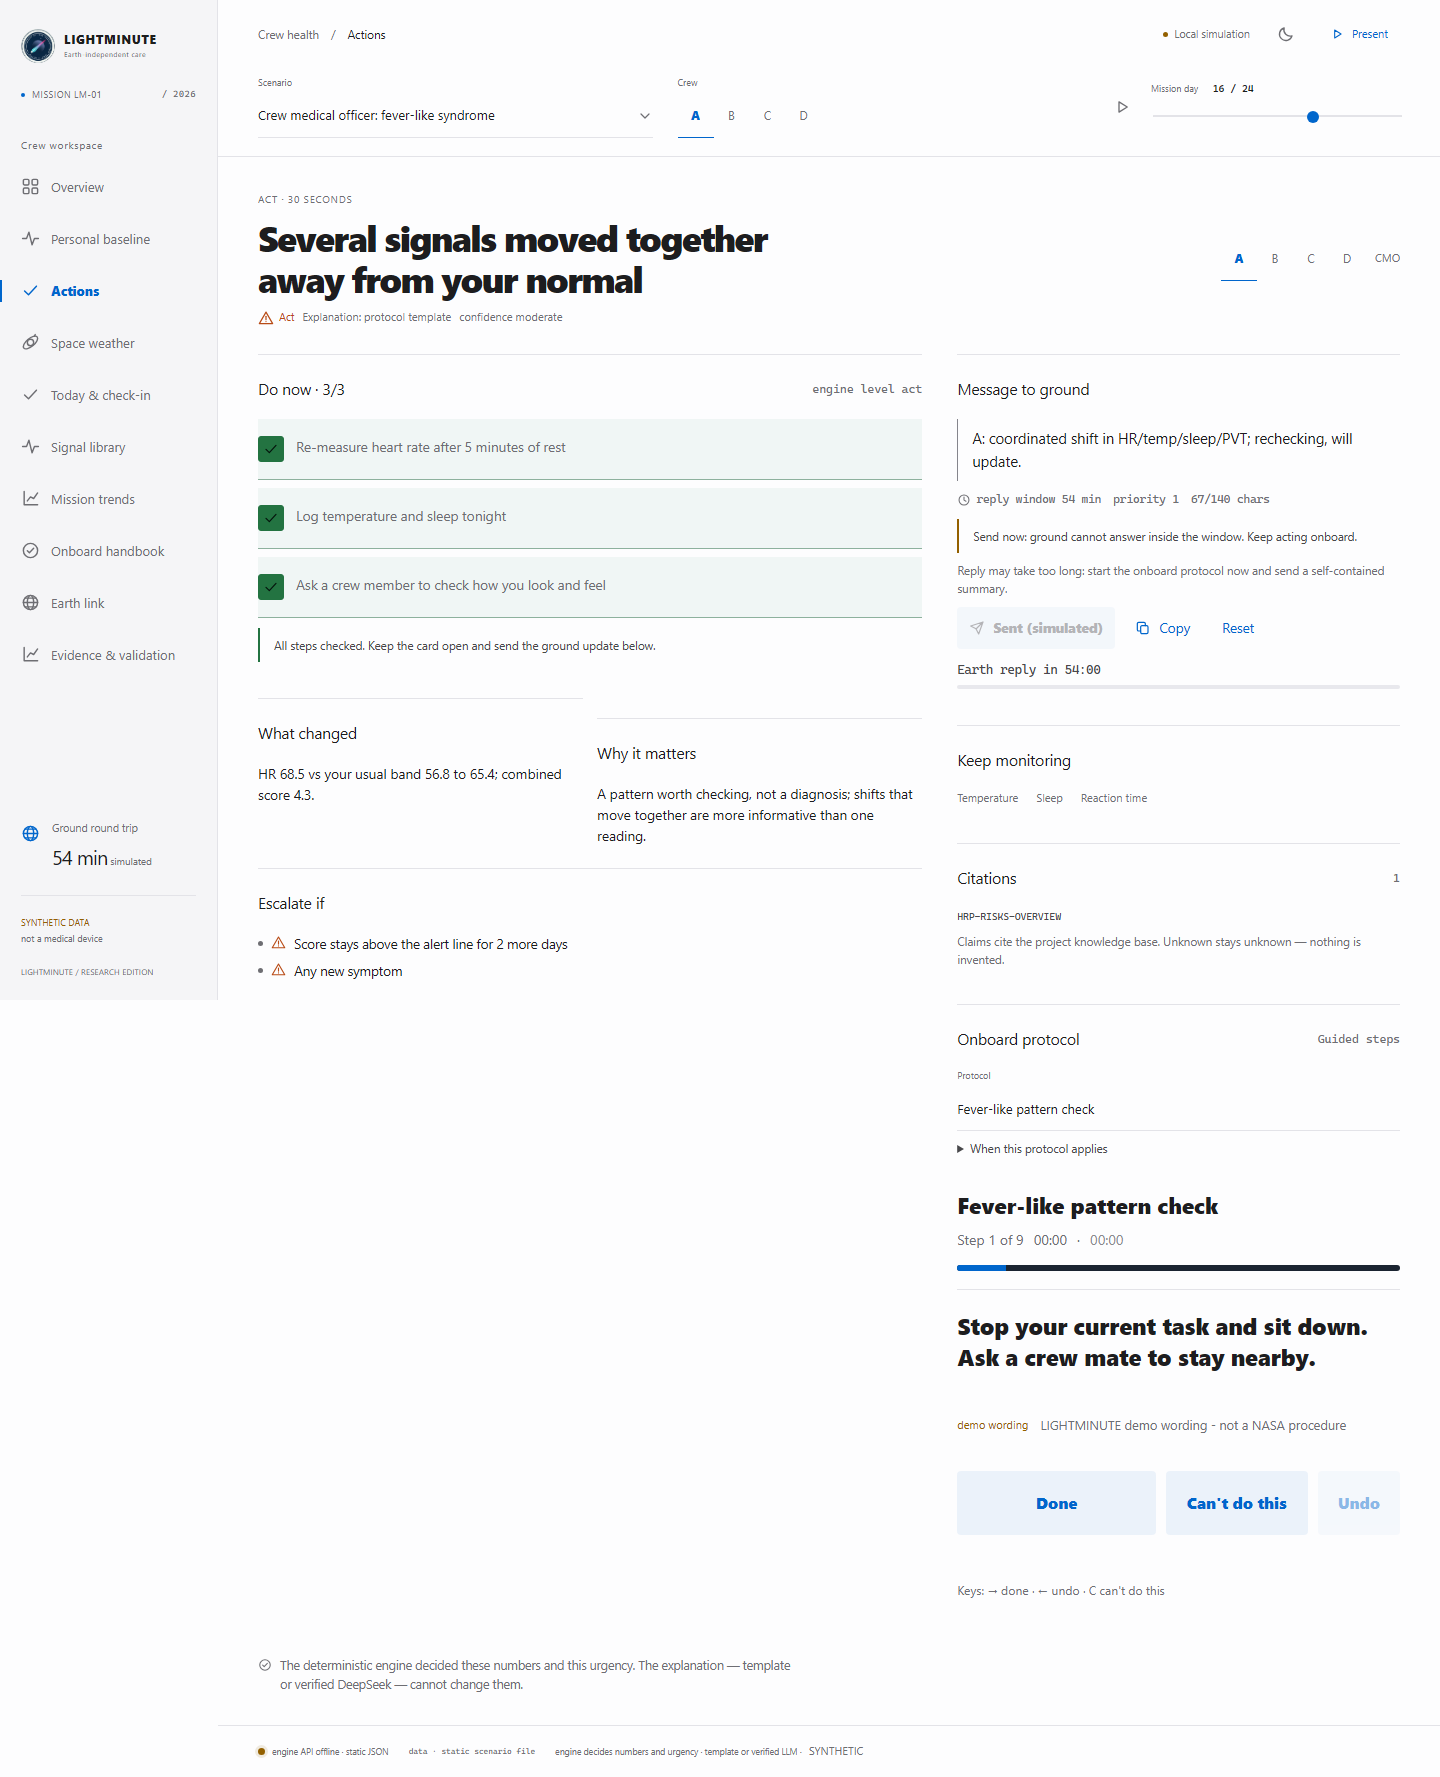
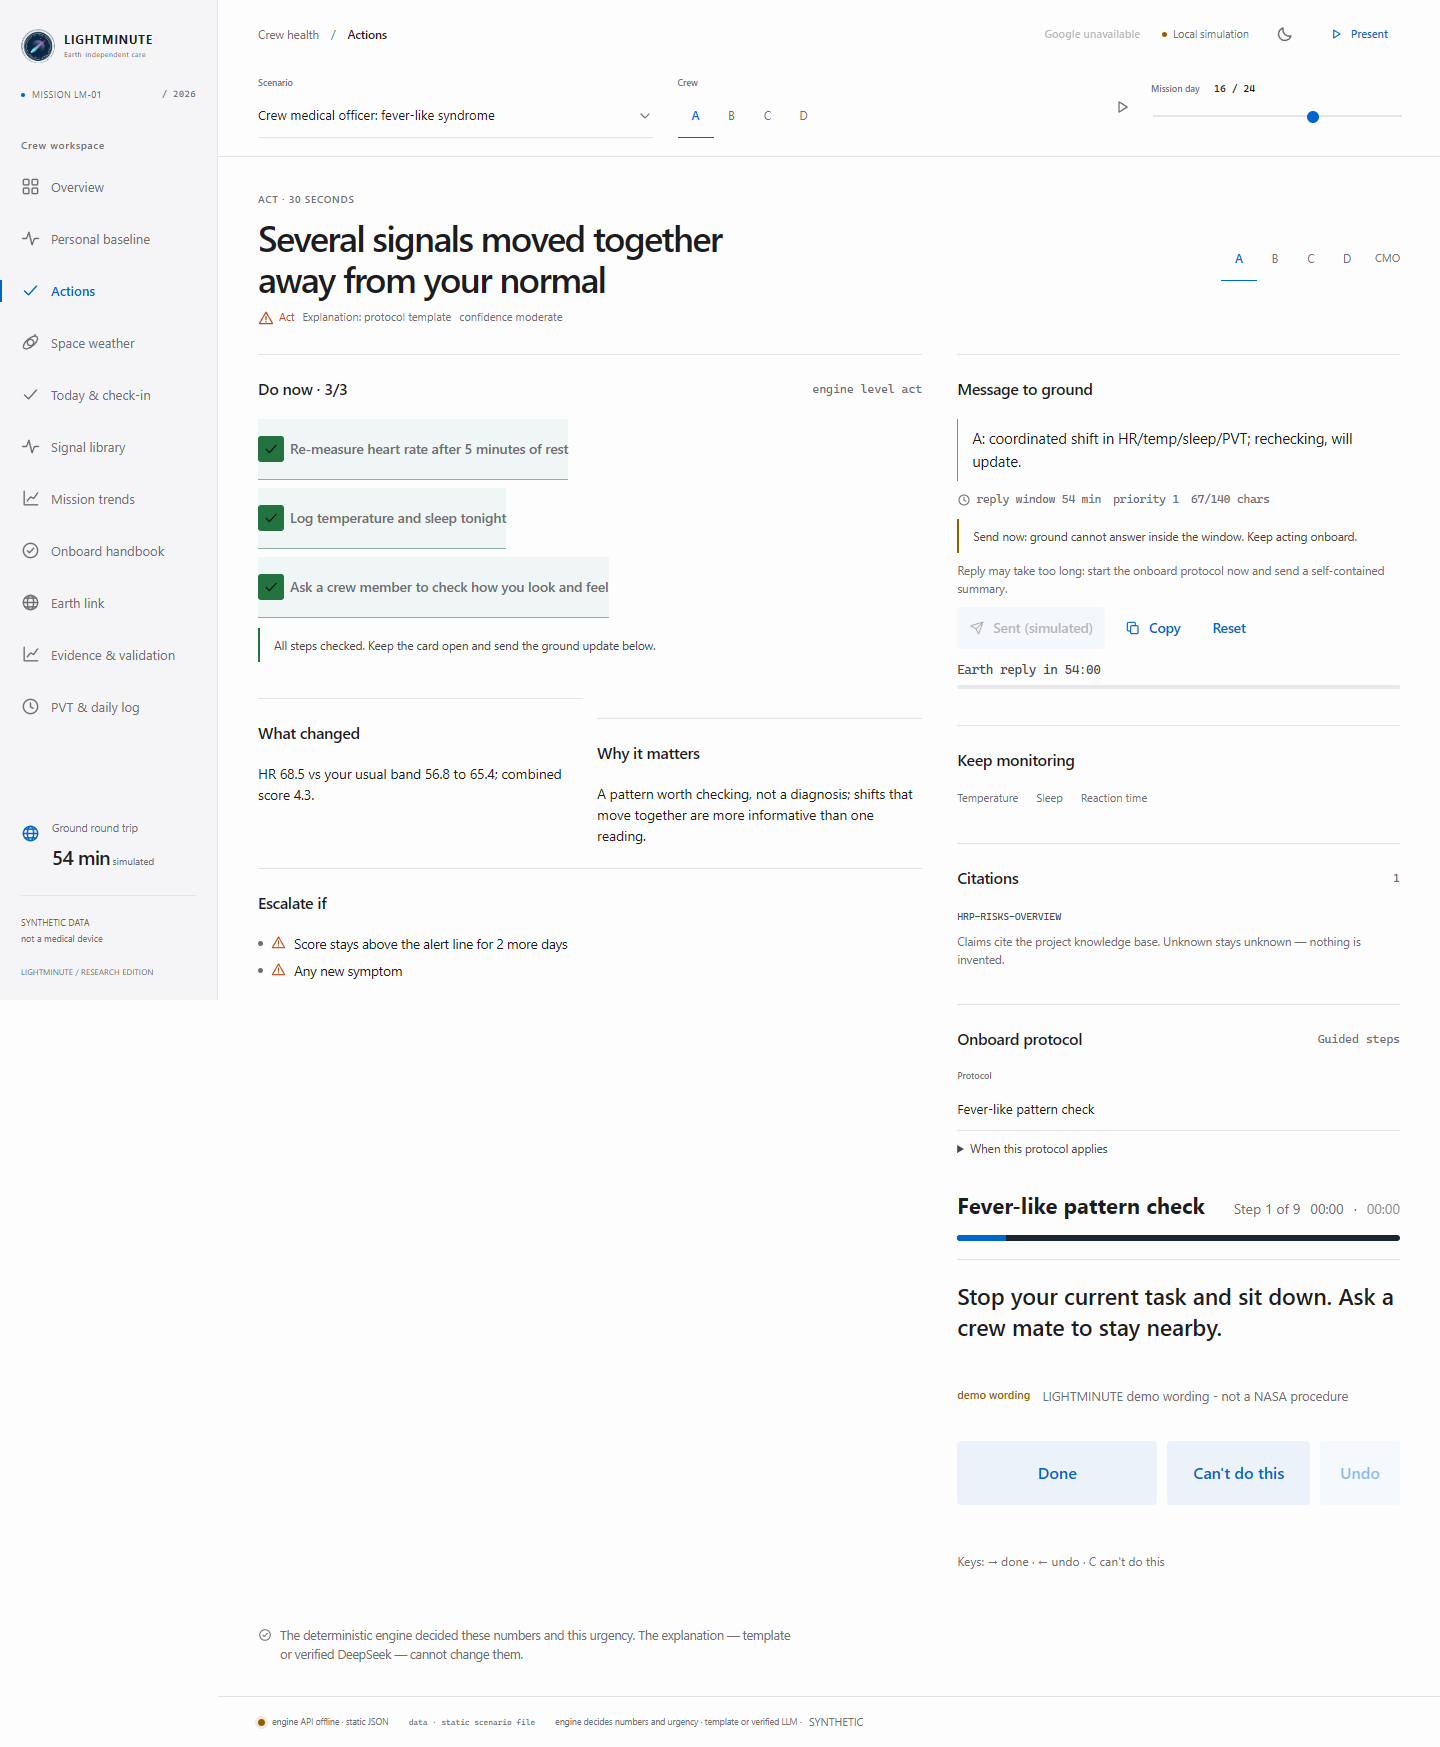
docs: refresh QA captures, OAuth notes and the session handoff
Record the restored crew-tablet views, the browser E2E results and the Google
sign-in setup, with regenerated QA screenshots and the vault log for the day.

🤖 Generated with Codebuff

diff --git a/docs/google-oauth.md b/docs/google-oauth.md
@@ -1,0 +1,111 @@
+# Google sign-in: localhost and Cloudflare Pages
+
+Google OAuth runs on the server. The browser never receives the client secret,
+Google access token or refresh token. Scopes are limited to `openid email profile`.
+
+## Register these exact URLs in Google Cloud
+
+Client type: **Web application**, under Google Auth Platform → Clients.
+
+| Setting | Local development | Production |
+| --- | --- | --- |
+| Authorized JavaScript origin | `http://localhost:5173` | `https://lightminute.pages.dev` |
+| Authorized redirect URI | `http://localhost:5173/api/auth/google/callback` | `https://lightminute.pages.dev/api/auth/google/callback` |
+
+The redirect URIs have no trailing slash. The redirect path is an API endpoint,
+not a folder that must exist before registering it in Google. `127.0.0.1`, other
+ports and Cloudflare preview domains are intentionally not registered or accepted.
+If the consent screen is in Testing, add the Google accounts that will test it
+under Google Auth Platform → Audience → Test users.
+
+## Run locally
+
+The repository-root `.env`, ignored by Git, contains `GOOGLE_CLIENT_ID`,
+`GOOGLE_CLIENT_SECRET` and a random `AUTH_SESSION_SECRET` of at least 32 characters.
+See `.env.example`. Never prefix secrets with `VITE_`.
+
+```powershell
+cd apps/crew-tablet
+npm ci
+npm run dev
+```
+
+Visit **http://localhost:5173**, then use **Sign in with Google** in the header.
+Vite serves `/api/auth/*` before forwarding other `/api` requests to Python, so
+Google sign-in works even when the Python API is off. The port is strict to avoid
+silently changing to a port Google has not authorized. Restart Vite after changing
+the `.env` file. Production API functionality unrelated to Google is unchanged.
+
+## Configure and deploy Cloudflare
+
+The Cloudflare Pages project is `lightminute`, configured by
+`apps/crew-tablet/wrangler.toml`. The client ID is public and lives in `[vars]`.
+Set **encrypted secrets** `GOOGLE_CLIENT_SECRET` and `AUTH_SESSION_SECRET` in
+Workers & Pages → lightminute → Settings → Variables and Secrets, production.
+Use the same client ID as the Google Cloud client configured above.
+
+Alternatively, from `apps/crew-tablet`, use Wrangler's secret prompts (do not put
+secrets directly in command arguments):
+
+```powershell
+npx wrangler login --scopes account:read user:read pages:write
+npx wrangler pages secret put GOOGLE_CLIENT_SECRET --project-name lightminute
+npx wrangler pages secret put AUTH_SESSION_SECRET --project-name lightminute
+npm run cf:deploy
+```
+
+Deploy from **apps/crew-tablet**, so Wrangler discovers its `functions/` directory.
+Uploading only `dist/` through a static uploader will not deploy the OAuth API.
+Functions routing is limited to `/api/auth/*` through `public/_routes.json`.
+Keep the OAuth routes out of the public sitemap.
+
+## Routes and security behavior
+
+| Route | Behavior |
+| --- | --- |
+| `GET /api/auth/google/login` | Starts Google authorization with state, nonce and PKCE S256. |
+| `GET /api/auth/google/callback` | Checks state, exchanges the one-use code server-side, validates the Google ID-token signature, issuer, audience, age and nonce, and requires verified email. |
+| `GET /api/auth/session` | Returns minimal signed-in identity, or `user: null`; never returns credentials or OAuth tokens. |
+| `POST /api/auth/logout` | Requires a same-origin request and clears app session cookies. It does not sign out of the user's Google account. |
+
+Flow cookies expire in 10 minutes and app sessions in one hour. Cookies are
+HttpOnly and SameSite=Lax; production uses Secure and the `__Host-` prefix.
+Responses are `no-store`; errors never include Google's raw response. Session
+cookies are signed, not encrypted, and contain only Google subject, name and email.
+Rotating `AUTH_SESSION_SECRET` invalidates existing cookies. Stateless sessions
+have no centralized revocation list. This identity does not grant medical,
+flight-surgeon or crew roles: the existing mission demo PIN remains a separate
+demonstration mechanism. No Google identity or health information is written to
+Neon by this integration, and no new Google APIs beyond sign-in are authorized.
+
+## Verify
+
+```powershell
+npm run test:auth
+npm run build
+npx wrangler pages functions build --outdir ../../tmp/cloudflare-auth
+```
+
+After deployment, `/api/auth/session` should return
+`{"configured":true,"user":null}` before login. The login route should redirect
+to Google with the exact callback above. Completing real sign-in requires the
+Google account owner's browser consent; mocked tests are not proof of that consent.
+
+## Local verification status — 2026-11-14
+
+- 12/12 OAuth security/session tests passed; TypeScript and Vite build passed.
+- Cloudflare Pages Functions compiled successfully.
+- An additional local Workerd/Miniflare runtime check failed to initialize on this
+  Windows environment, including its minimal baseline. This does not constitute
+  a successful production runtime test; verify the deployed routes after publishing.
+- Real localhost routes returned configured session HTTP 200 and Google redirect HTTP 302.
+- Browser checks passed for sign-in availability, exact callback, 390/1440px layout,
+  and account display/logout with synthetic responses. Public bundles contain no secrets.
+- Cloudflare secrets and deployment will be configured manually by the deployment
+  owner, as requested. No Cloudflare login, deployment or real Google account sign-in
+  was completed from this workstation. Google redirect registration remains external.
+
+Sources: [Google web-server OAuth](https://developers.google.com/identity/protocols/oauth2/web-server),
+[Google OpenID Connect](https://developers.google.com/identity/openid-connect/openid-connect),
+[Pages Functions routing](https://developers.cloudflare.com/pages/functions/routing/),
+[Pages secrets](https://developers.cloudflare.com/pages/functions/bindings/#secrets).

diff --git a/handoff/freebuff-checklist.md b/handoff/freebuff-checklist.md
@@ -1,0 +1,68 @@
+# Freebuff checklist · crew-tablet (data views, contract hardening, E2E)
+
+Date: 2026-11-14
+Repo: `C:\Users\abel1\Desktop\tether-kit\tether-kit\project`
+
+## Alcance
+
+- Solo `apps/crew-tablet/**` + este handoff.
+- Sin operaciones destructivas sobre trabajo ajeno: no se revirtieron docs/services/scripts, no se tocaron `services/`, `ml/`, `docs/`, `vault/` ni `.agents/` salvo lo que ya venía sin commitear de otros frentes (que se commitea, no se descarta).
+
+## Ronda 1 — vistas de datos y contrato
+
+- `src/lib/radiation.ts` / `src/lib/validation.ts`: parsers tipados de `public/data/radiation.json` y `validation.json`.
+- `src/views/Radiation.tsx`: chips de procedencia, tiles de flux actual/pico/escala S, gráfico SVG de todas las muestras, tira log de escala S, tabla de procedencia (fuente, URL, retrieved, licencia, label, checksum), límites y `RawDetails`.
+- `src/views/Validation.tsx`: design, tablas por escenario, calibración, missing data, baseline length, limitaciones y panel de stats LLM.
+- `src/views/CheckIn.tsx`: PVT-B (10 ensayos, ISI 1.5–4 s, RT, lapsos, falsos arranques) + check-in diario en `localStorage`, todo etiquetado demo/local y sin ruta hacia el motor.
+- `scripts/smoke.mjs` y `tests/e2e.mjs`: contrato del build y E2E de navegador.
+
+## Ronda 2 — correcciones de revisión
+
+| Hallazgo | Arreglo |
+| --- | --- |
+| `faPerWeek` como porcentaje | Columnas de tasa en decimal con unidad **"/ crew-week"**, nota explícita y verificación en el E2E (falla si aparece `%`). |
+| `label: synthetic` con `synthetic: false` | Se resuelve a **`unverified`** con chip "label conflict → unverified" y motivo en Provenance. |
+| Flux negativo / fecha inválida | El parser descarta el sample. |
+| `s_scale` ausente | Queda **unknown**; nunca se infiere S0. |
+| Eje X comprimía huecos | Eje proporcional al timestamp (con marca del punto medio). |
+| `DataNotice` sobre datos NOAA | Radiation y Validation dicen **SYNTHETIC CREW**. |
+| Contrato pfu ≥10 MeV | `unitsContracted`, unidad tomada del snapshot y checks de `pfu`/`10 MeV` en el smoke. |
+| `co2_creep` caía a `cmo_fever` | Identidad de escenario validada en `lib/api.ts`. |
+
+## Ronda 3 — restauración sobre LIGHTMINUTE
+
+El trabajo de las rondas 1-2 quedó guardado en `b533b25`, pero `e0c1fb5` (integración LIGHTMINUTE) y el fast-forward a `origin/main` reemplazaron esas rutas: `main` ya no tenía `tests/`, `CheckIn.tsx`, `lib/radiation.ts` ni `lib/validation.ts`, y `Radiation/Validation` eran vistas genéricas de inspector.
+
+Restaurado desde `b533b25` **sin pisar LIGHTMINUTE**: las cuatro vistas/lib propias, `tests/e2e.mjs` y `screenshots/`. Reintegrado a mano en la app actual:
+
+- `App.tsx` + `useHashState.ts`: vista `checkin` ("PVT & daily log"), renderizada **fuera** del bloque de escenario para funcionar sin motor ni JSON.
+- `styles.css`: bloque `.rad-chart`/`.sstrip`/`.provenance`/`.pvt`/`.checkin` reincorporado (239 líneas).
+- `primitives.tsx`: `DataNotice` acepta `label` ("SYNTHETIC CREW").
+- `lib/api.ts`: rechaza sustitución (`asked co2_creep, got cmo_fever`), identidad ausente en archivos estáticos y **identidad autocontradictoria** (`scenario` ≠ `name`).
+- `scripts/smoke.mjs`: usa `channel: "chrome"` (no descarga Chromium), detecta `.venv/Scripts/python.exe` para el motor y apunta al DOM restaurado (`.rad-chart`, tablas de métodos, `checkin` en el barrido móvil).
+
+## Checks (estado actual)
+
+```
+npm run typecheck          exit 0
+npm run build              exit 0
+npm run test:e2e           exit 0 · 17 grupos (incluye motor real, LLM_PROVIDER=none)
+npm run test:e2e:browser   exit 0 · 13 passed · browser e2e: PASS
+```
+
+El E2E de navegador cubre: cinco vistas, snapshot de radiación manipulado, escenario inexistente, tres formas de sustitución de escenario, estados vacíos honestos de radiación/validación, PVT-B completo, check-in persistente y móvil 390×844, con cero `pageerror`.
+
+Capturas: `apps/crew-tablet/screenshots/final-*.png` (glance, why, act, radiation, radiation-unverified, validation, checkin, wrong-scenario, mobile-checkin, ground, protocol).
+
+## Coordinación
+
+- Míos: `src/views/Radiation.tsx`, `src/views/Validation.tsx`, `src/views/CheckIn.tsx`, `src/lib/radiation.ts`, `src/lib/validation.ts`, `src/lib/api.ts`, `tests/e2e.mjs`, `scripts/smoke.mjs`, `screenshots/`.
+- Servidores ajenos intactos: Vite del padre en `:5173` y `vite preview` propio en `:4173`.
+
+## Límites
+
+- El E2E de navegador corre **sin motor** (camino offline: JSON estático + plantillas); el smoke sí arranca el motor desde `.venv` con `LLM_PROVIDER=none`.
+- Solo Chrome instalado; "móvil" es viewport Chromium, no dispositivo real.
+- Las rutas `s_scale` ausente y label contradictorio se ejercitan con fixtures interceptados, no con el archivo publicado.
+- Los RT del PVT son clics automatizados: validez técnica, no medida humana.
+- Sin validación clínica: los porcentajes son de crews sintéticos y la vista muestra sus limitaciones.

diff --git a/README.md b/README.md
@@ -111,7 +111,31 @@ Legend: ✅ works and was exercised · 🟡 works with a stated limit · ⛔ not
 - Submission assets: the 60-second video, public demo/video URL and team/roles section. Eight screenshots are in `docs/screenshots/`.
 - `.github/workflows/ci.yml` runs the tests and the tablet build on every push to `main` and on PRs, it ran green on both jobs on 14-nov (run 43613134201) but never on a public repo, and ownership now includes the vault and passes locally. The expanded CI workflow has not been pushed in this revision.
 - OSDR / Inspiration4 data (blocked by 404s), and any prospective validation on real crew data.
-- Vision / voice input endpoints, DeepSeek web-search use, auth, database, multi-crew sessions — all deliberately out of scope for the prototype.
+- Vision / voice input endpoints, DeepSeek web-search use, production auth and multi-crew sessions remain outside the prototype scope.
+
+### Neon database connection
+
+Install the backend dependencies from `services/engine/pyproject.toml` and set
+`DATABASE_URL` in the repository-root `.env` (ignored by Git), using the connection
+string from Neon with TLS enabled. Environment variables override the local file.
+The credential belongs only on the backend; never add it to a `VITE_` variable.
+
+With the API running, `GET /api/database/health` executes `SELECT 1`, returning
+`{"status":"ok","provider":"neon","connected":true}` or a sanitized HTTP 503.
+Connections and queries use five-second timeouts, and connections close after use.
+This integration does not migrate data or create tables. Existing mission messages
+still use SQLite; the Neon connection is available through
+`tether_engine.api.database.get_connection()` for future persistence work.
+The static frontend continues to work without Neon or the backend.
+
+### Google sign-in
+
+Google OAuth now has same-origin server routes for `http://localhost:5173` and
+`https://lightminute.pages.dev`, with a sign-in/account control in the header.
+Set the three server variables from `.env.example` locally or in Cloudflare;
+the callback paths and deployment instructions are in [docs/google-oauth.md](docs/google-oauth.md).
+Cloudflare secrets and deployment are managed manually by the deployment owner.
+Google identity does not assign medical roles or change the mission demo PIN.
 - Expert clinical review of thresholds and protocol steps, and regulatory classification work.
 
 ### The defect we found and fixed (read this before quoting numbers)

diff --git a/vault/04-Execution/log/2026-11-14.md b/vault/04-Execution/log/2026-11-14.md
@@ -122,3 +122,17 @@ Ver [[Auditoria integral LIGHTMINUTE]] · [[ADR-005 Identidad y fuente de verdad
   fases ni checklists por tener una pantalla o una plantilla de demostración.
 - Siguiente: resolver esas brechas con evidencia y pruebas antes de declararlas operativas.
   Véase [[ADR-007 Anatomia y flujos de referencia]] y [matriz](../../../docs/reference-coverage.md).
+
+## Conexión Neon solicitada por el propietario
+
+- Hecho: controlador psycopg y carga de DATABASE_URL desde .env ignorado por Git; conexión exclusiva del backend. No se registró la credencial en documentos ni código versionado.
+- Verificado: GET /api/database/health ejecutó SELECT 1 contra Neon y devolvió HTTP 200 con connected=true. El pool rechaza statement_timeout en opciones de inicio; se aplica SET LOCAL dentro de la transacción. Fuente: https://neon.com/docs/connect/connection-errors#unsupported-startup-parameter .
+- Alcance: conexión y comprobación de disponibilidad. No se crearon tablas, no se migraron datos y la cola de misión conserva SQLite. Capacitor fue cancelado por el propietario y sus cambios de dependencias se retiraron. Sin push de esta integración.
+- Siguiente: elegir entidades y migración solo si el propietario amplía el alcance.
+
+## Google OAuth y despliegue manual
+
+- Hecho: rutas login/callback/session/logout, manejador compartido Vite/Pages Functions, control de cuenta en la interfaz; credenciales en .env ignorado y contrato de secretos Cloudflare.
+- Verificado: 12/12 pruebas OAuth, build TypeScript/Vite, compilación de Functions, inicio real en localhost:5173 (sesión 200 y redirect 302 con callback exacto), navegador a 390/1440px y logout simulado, bundle sin secretos. Ownership y git diff --check correctos.
+- Límite: Miniflare/Workerd local no pudo inicializarse en Windows, tampoco su baseline mínimo; no se presenta como validación del runtime desplegado. Sin consentimiento real Google.
+- Decisión: el usuario indicó que no puede autorizar esa cuenta Cloudflare y que el responsable añadirá las variables manualmente. Sin despliegue ni push de esta integración. Véase [[ADR-008 Google OAuth en Pages y localhost]] y la guía de URI en docs/google-oauth.md.

diff --git a/vault/03-Architecture/ADR-008 Google OAuth en Pages y localhost.md b/vault/03-Architecture/ADR-008 Google OAuth en Pages y localhost.md
@@ -1,0 +1,24 @@
+---
+tags: [architecture, auth, google, cloudflare]
+status: decided
+updated: 2026-11-14
+sources:
+  - https://developers.google.com/identity/protocols/oauth2/web-server
+  - https://developers.cloudflare.com/pages/functions/routing/
+---
+# ADR-008 Google OAuth en Pages y localhost
+
+El propietario solicitó vincular Google en localhost:5173 y lightminute.pages.dev.
+La identidad Google usa un único manejador de servidor, ejecutado por Vite en
+desarrollo y Pages Functions en producción. El secreto OAuth y la clave de sesión
+permanecen en `.env` ignorado o en secretos de Cloudflare; nunca en `VITE_*`.
+
+Se usan authorization code, PKCE, state, nonce, firma/issuer/audience del ID token
+y cookies HttpOnly de una hora. No se conservan access/refresh tokens. La identidad
+Google no otorga roles clínicos ni modifica la autenticación demo de Earth link.
+
+El responsable del despliegue añadirá manualmente las variables de Cloudflare y
+las URI de retorno de Google. No se desplegó desde esta cuenta ni se completó un
+consentimiento Google real. Detalles y comprobaciones: [guía OAuth](../../docs/google-oauth.md).
+
+Relacionado: [[00-Home]] · [[Board]] · [[ADR-001 Motor decide LLM explica]].

diff --git a/docs/seo-deploy.md b/docs/seo-deploy.md
@@ -35,6 +35,11 @@ npx wrangler pages deploy dist --project-name lightminute --branch main
 CI still guards the tag (`.github/workflows/ci.yml` fails if `google-site-verification`
 is missing from `dist/index.html`).
 
+Google account sign-in is separate from Search Console ownership verification.
+The app now also includes Pages Functions under `functions/api/auth/` and needs
+the two server secrets documented in [google-oauth.md](google-oauth.md). Deploy
+from `apps/crew-tablet` so Wrangler includes these functions alongside `dist/`.
+
 Confirm the tag is really live before clicking Verify in Search Console:
 
 ```powershell
